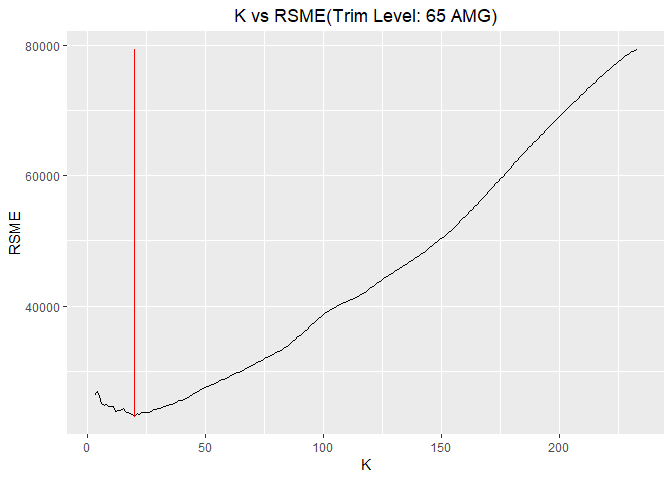
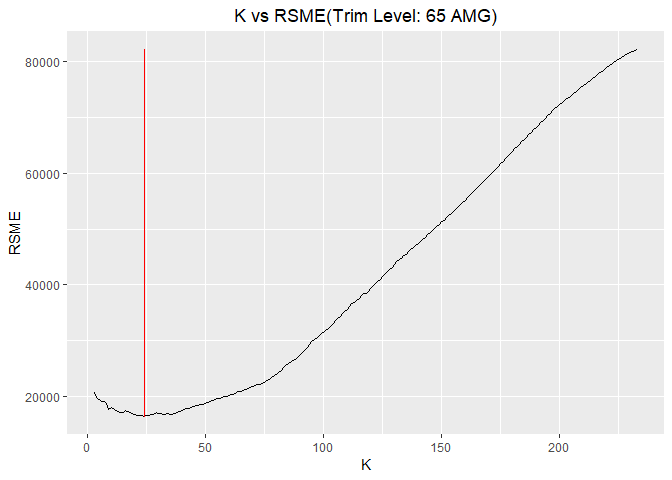
HW1.3 finished

diff --git a/HW1/Report/Exercise_1_Report.md b/HW1/Report/Exercise_1_Report.md
@@ -22,11 +22,9 @@ We splited the data into a training and a testing set. There are 80% of the data
 
 The optimal K for trim level 350 is printed below:
 
-    ## [1] 79
+    ## [1] 6
 
 Since the traning set is chosen randomly, if we run the KNN for several times, we will get different result. But generally, we can get the optimal K for trim level 350 is about 19. Then for the optimal value of K in this one running, a plot of the fitted modelis shown below:
-
-    ## [1] 9457.246
 
 <img src="Exercise_1_Report_files/figure-markdown_github/s350p_optimalplot-1.png" style="display: block; margin: auto;" />
 
@@ -40,10 +38,20 @@ We splited the data into a training and a testing set. There are 80% of the data
 
 The optimal K for trim level 65 AMG is printed below:
 
-    ## [1] 20
+    ## [1] 24
 
 Since the traning set is chosen randomly, if we run the KNN for several times, we will get different result. But generally, we can get the optimal K for trim level 65 AMG is about 16. Then for the optimal value of K in this one running, a plot of the fitted modelis shown below:
 
-    ## [1] 23117.32
-
 <img src="Exercise_1_Report_files/figure-markdown_github/s65p_optimalplot-1.png" style="display: block; margin: auto;" />
+
+In the end, the following code showed that the average optimal K for trim level 350 is larger than optimal K for trim level 65 AMG. We think that this is because that the sample size for the first data subset is larger than the second, and hence has a larger optimal K.
+
+    ## Warning in mean.default(OptK_350$X5): argument is not numeric or logical:
+    ## returning NA
+
+    ## [1] NA
+
+    ## Warning in mean.default(OptK_65AMG$X7): argument is not numeric or logical:
+    ## returning NA
+
+    ## [1] NA
